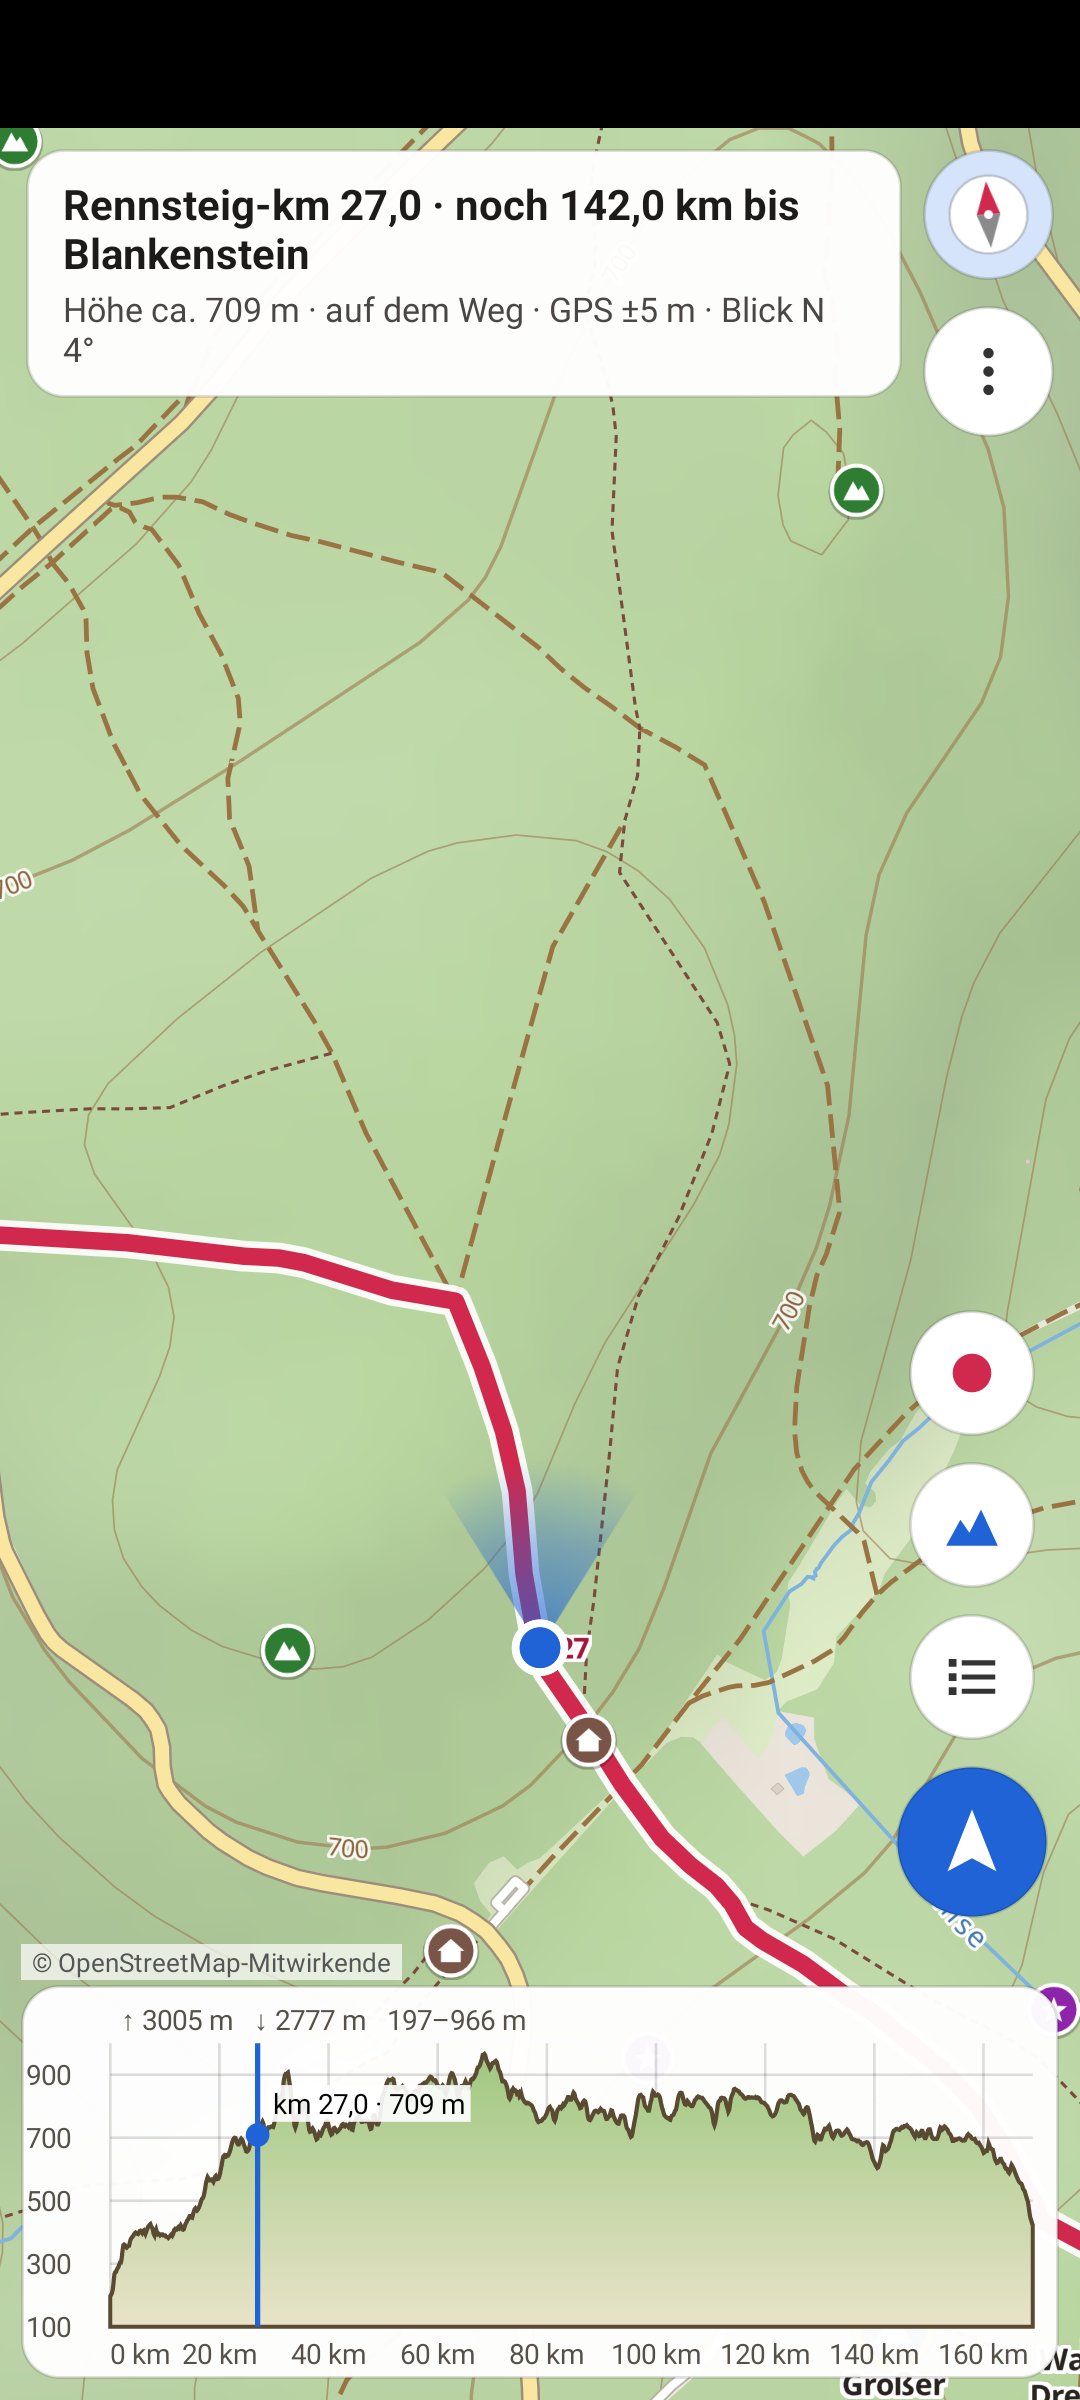
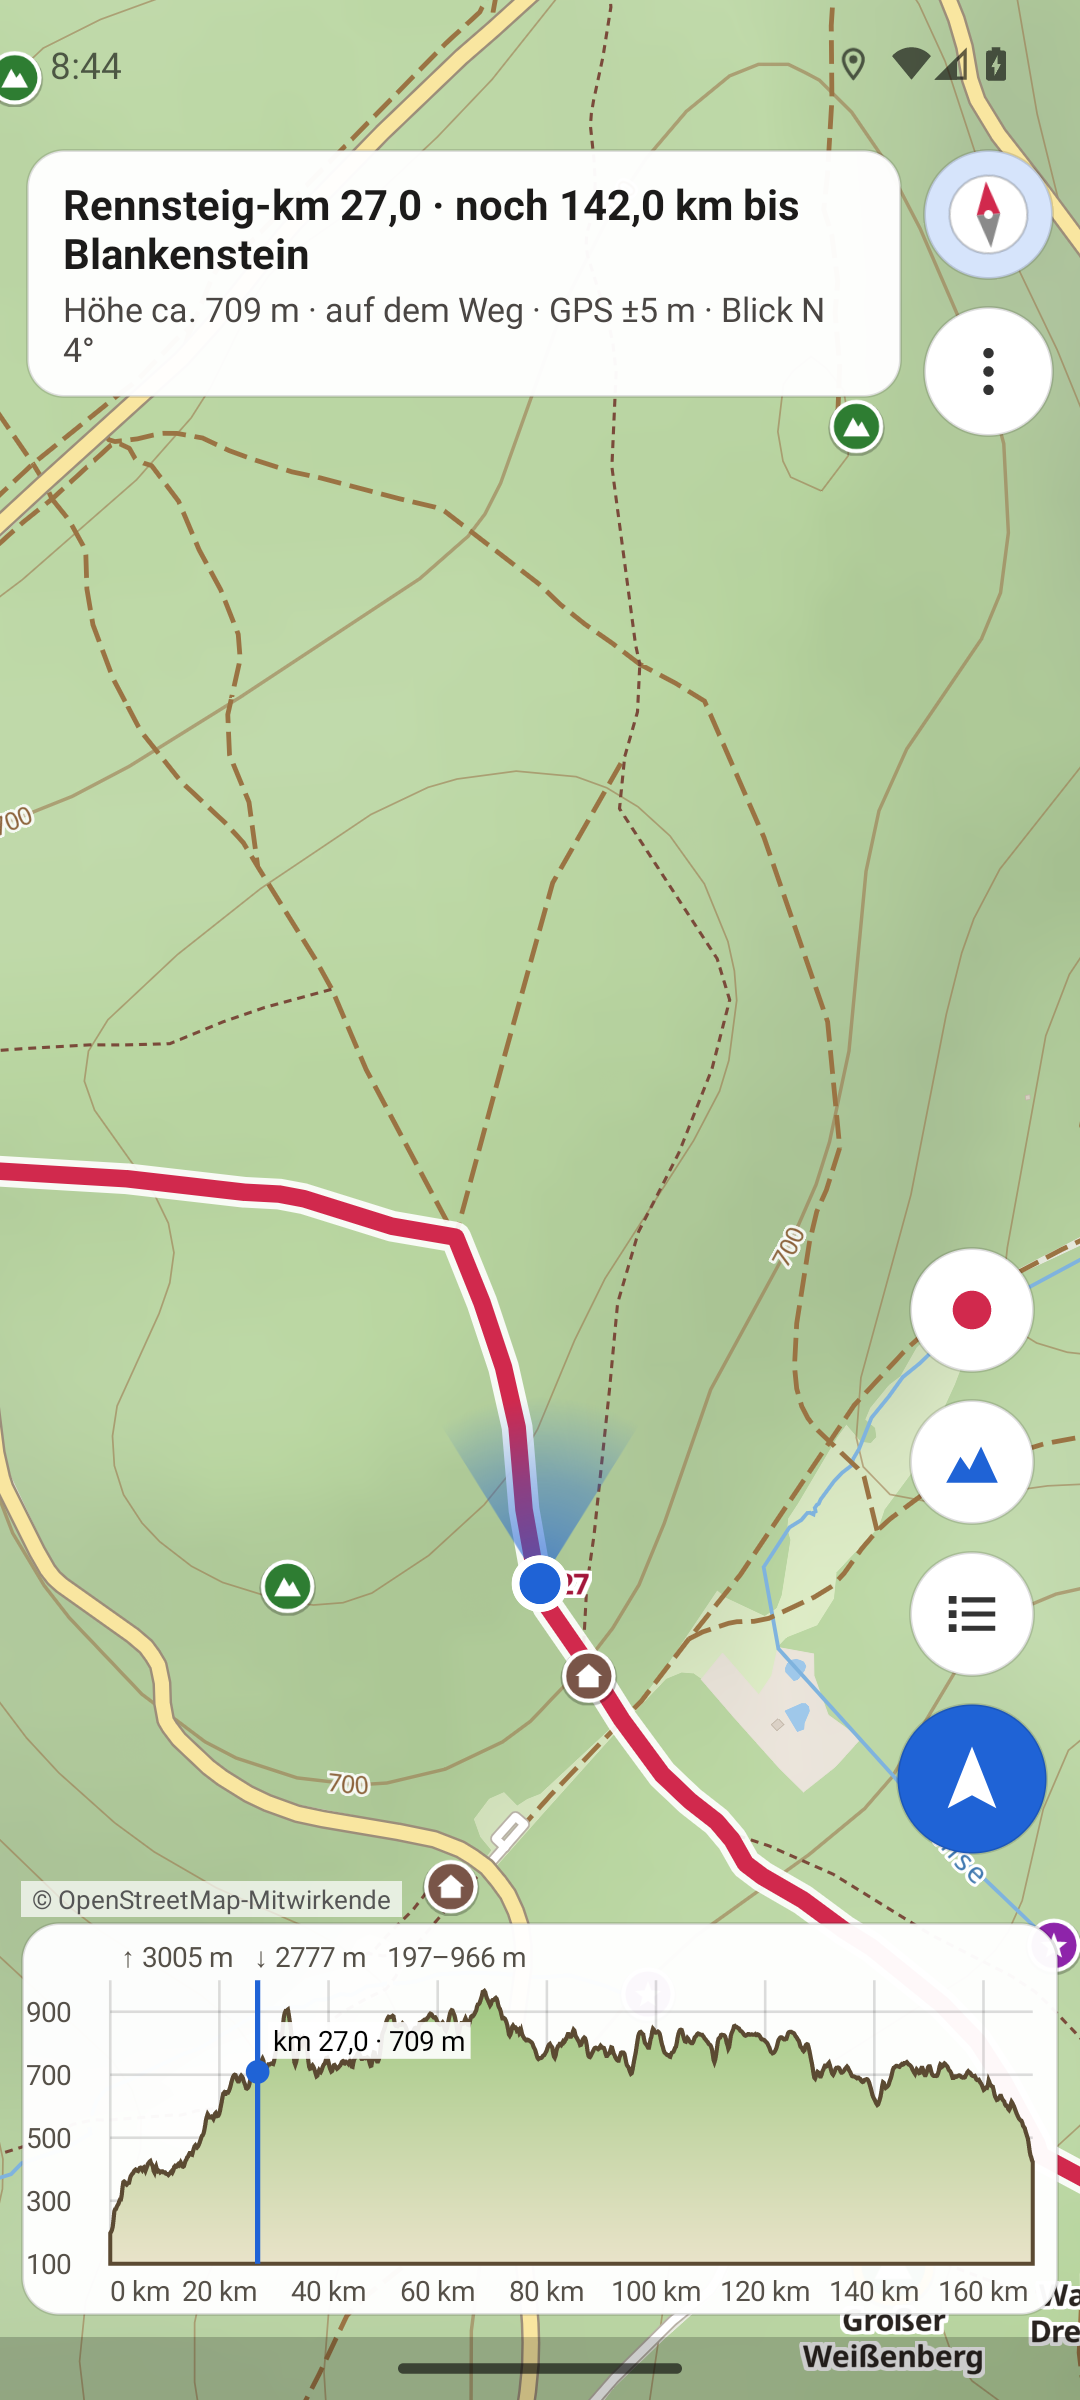
README: Bedienung, Installation aus dist/ und Release, Daten aktualisieren; Bildschirmfotos aus dem Release-Lauf
Claude-Session: https://claude.ai/code/session_01BSGzoXbrynyUrQbk6Mam9J

diff --git a/README.md b/README.md
@@ -42,8 +42,8 @@ Automatisch im Android-Emulator aufgenommen (Testposition bei Rennsteig-km 27 am
 
 ## Installation
 
-1. Die APK aus den [Releases](../../releases) (oder als Artefakt des letzten Workflow-Laufs) aufs
-   Handy laden.
+1. Die APK aufs Handy laden: aus den [Releases](../../releases), direkt aus
+   [`dist/RennsteigOffline.apk`](dist/RennsteigOffline.apk) oder als Artefakt des letzten Workflow-Laufs.
 2. Öffnen und die Installation aus dieser Quelle einmalig erlauben.
 3. Beim ersten Start wird die Offline-Karte eingerichtet (wenige Sekunden), danach Standort freigeben.
 
@@ -70,6 +70,10 @@ OpenStreetMap enthält keine Bewertungen. Mit ★ markiert werden deshalb
 | `.github/workflows/build.yml` | Baut Daten und APK, testet im Emulator, veröffentlicht Releases |
 
 ### Daten neu erzeugen
+
+Über **Actions → „APK bauen“ → Run workflow** mit „OSM- und Kartendaten neu erzeugen“ werden Route,
+Orte und Karte aus dem aktuellen OpenStreetMap-Stand neu gebaut; mit „GitHub-Release veröffentlichen“
+entsteht gleich ein neues Release. Ein Commit mit `[release]` (und optional `[apk]`) im Text tut dasselbe.
 
 Der Workflow **„APK bauen“** lädt die Geofabrik-Extrakte (Thüringen, Oberfranken, Hessen), sucht die
 Rennsteig-Relation, setzt die Route zusammen, wählt die Orte im Korridor aus, rechnet das Höhenprofil,
